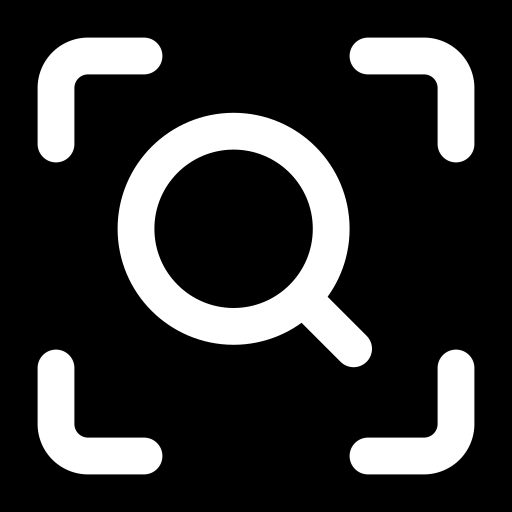
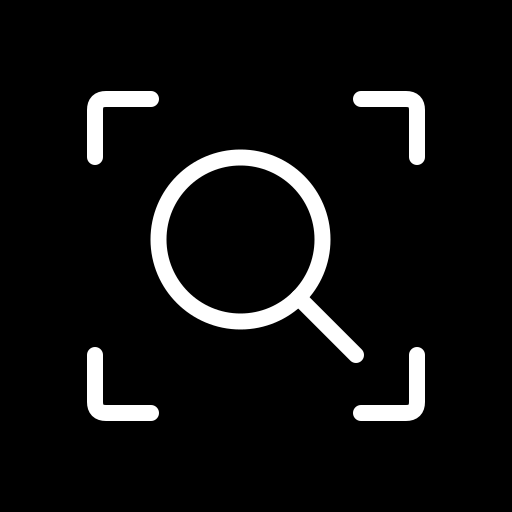
Add files via upload

diff --git a/findai-app.html b/findai-app.html
@@ -8,10 +8,11 @@
 <meta name="apple-mobile-web-app-capable" content="yes">
 <meta name="apple-mobile-web-app-status-bar-style" content="black-translucent">
 <meta name="apple-mobile-web-app-title" content="FindAI">
-<link rel="manifest" href="/app.webmanifest?v=14">
-<link rel="apple-touch-icon" sizes="180x180" href="/findai-search-touch-icon.png?v=14">
+<link rel="manifest" href="/app.webmanifest?v=15">
+<link rel="apple-touch-icon" sizes="180x180" href="/findai-search-touch-icon.png?v=15">
+<link rel="apple-touch-icon-precomposed" sizes="180x180" href="/findai-search-touch-icon.png?v=15">
 <link rel="icon" type="image/png" sizes="32x32" href="/findai-favicon-32.png?v=12">
-<link rel="icon" type="image/png" sizes="192x192" href="/findai-search-icon-192.png?v=14">
+<link rel="icon" type="image/png" sizes="192x192" href="/findai-search-icon-192.png?v=15">
 <link rel="preconnect" href="https://api.carsearchapi.workers.dev" crossorigin>
 <link rel="dns-prefetch" href="//api.carsearchapi.workers.dev">
 <title>FindAI</title>
